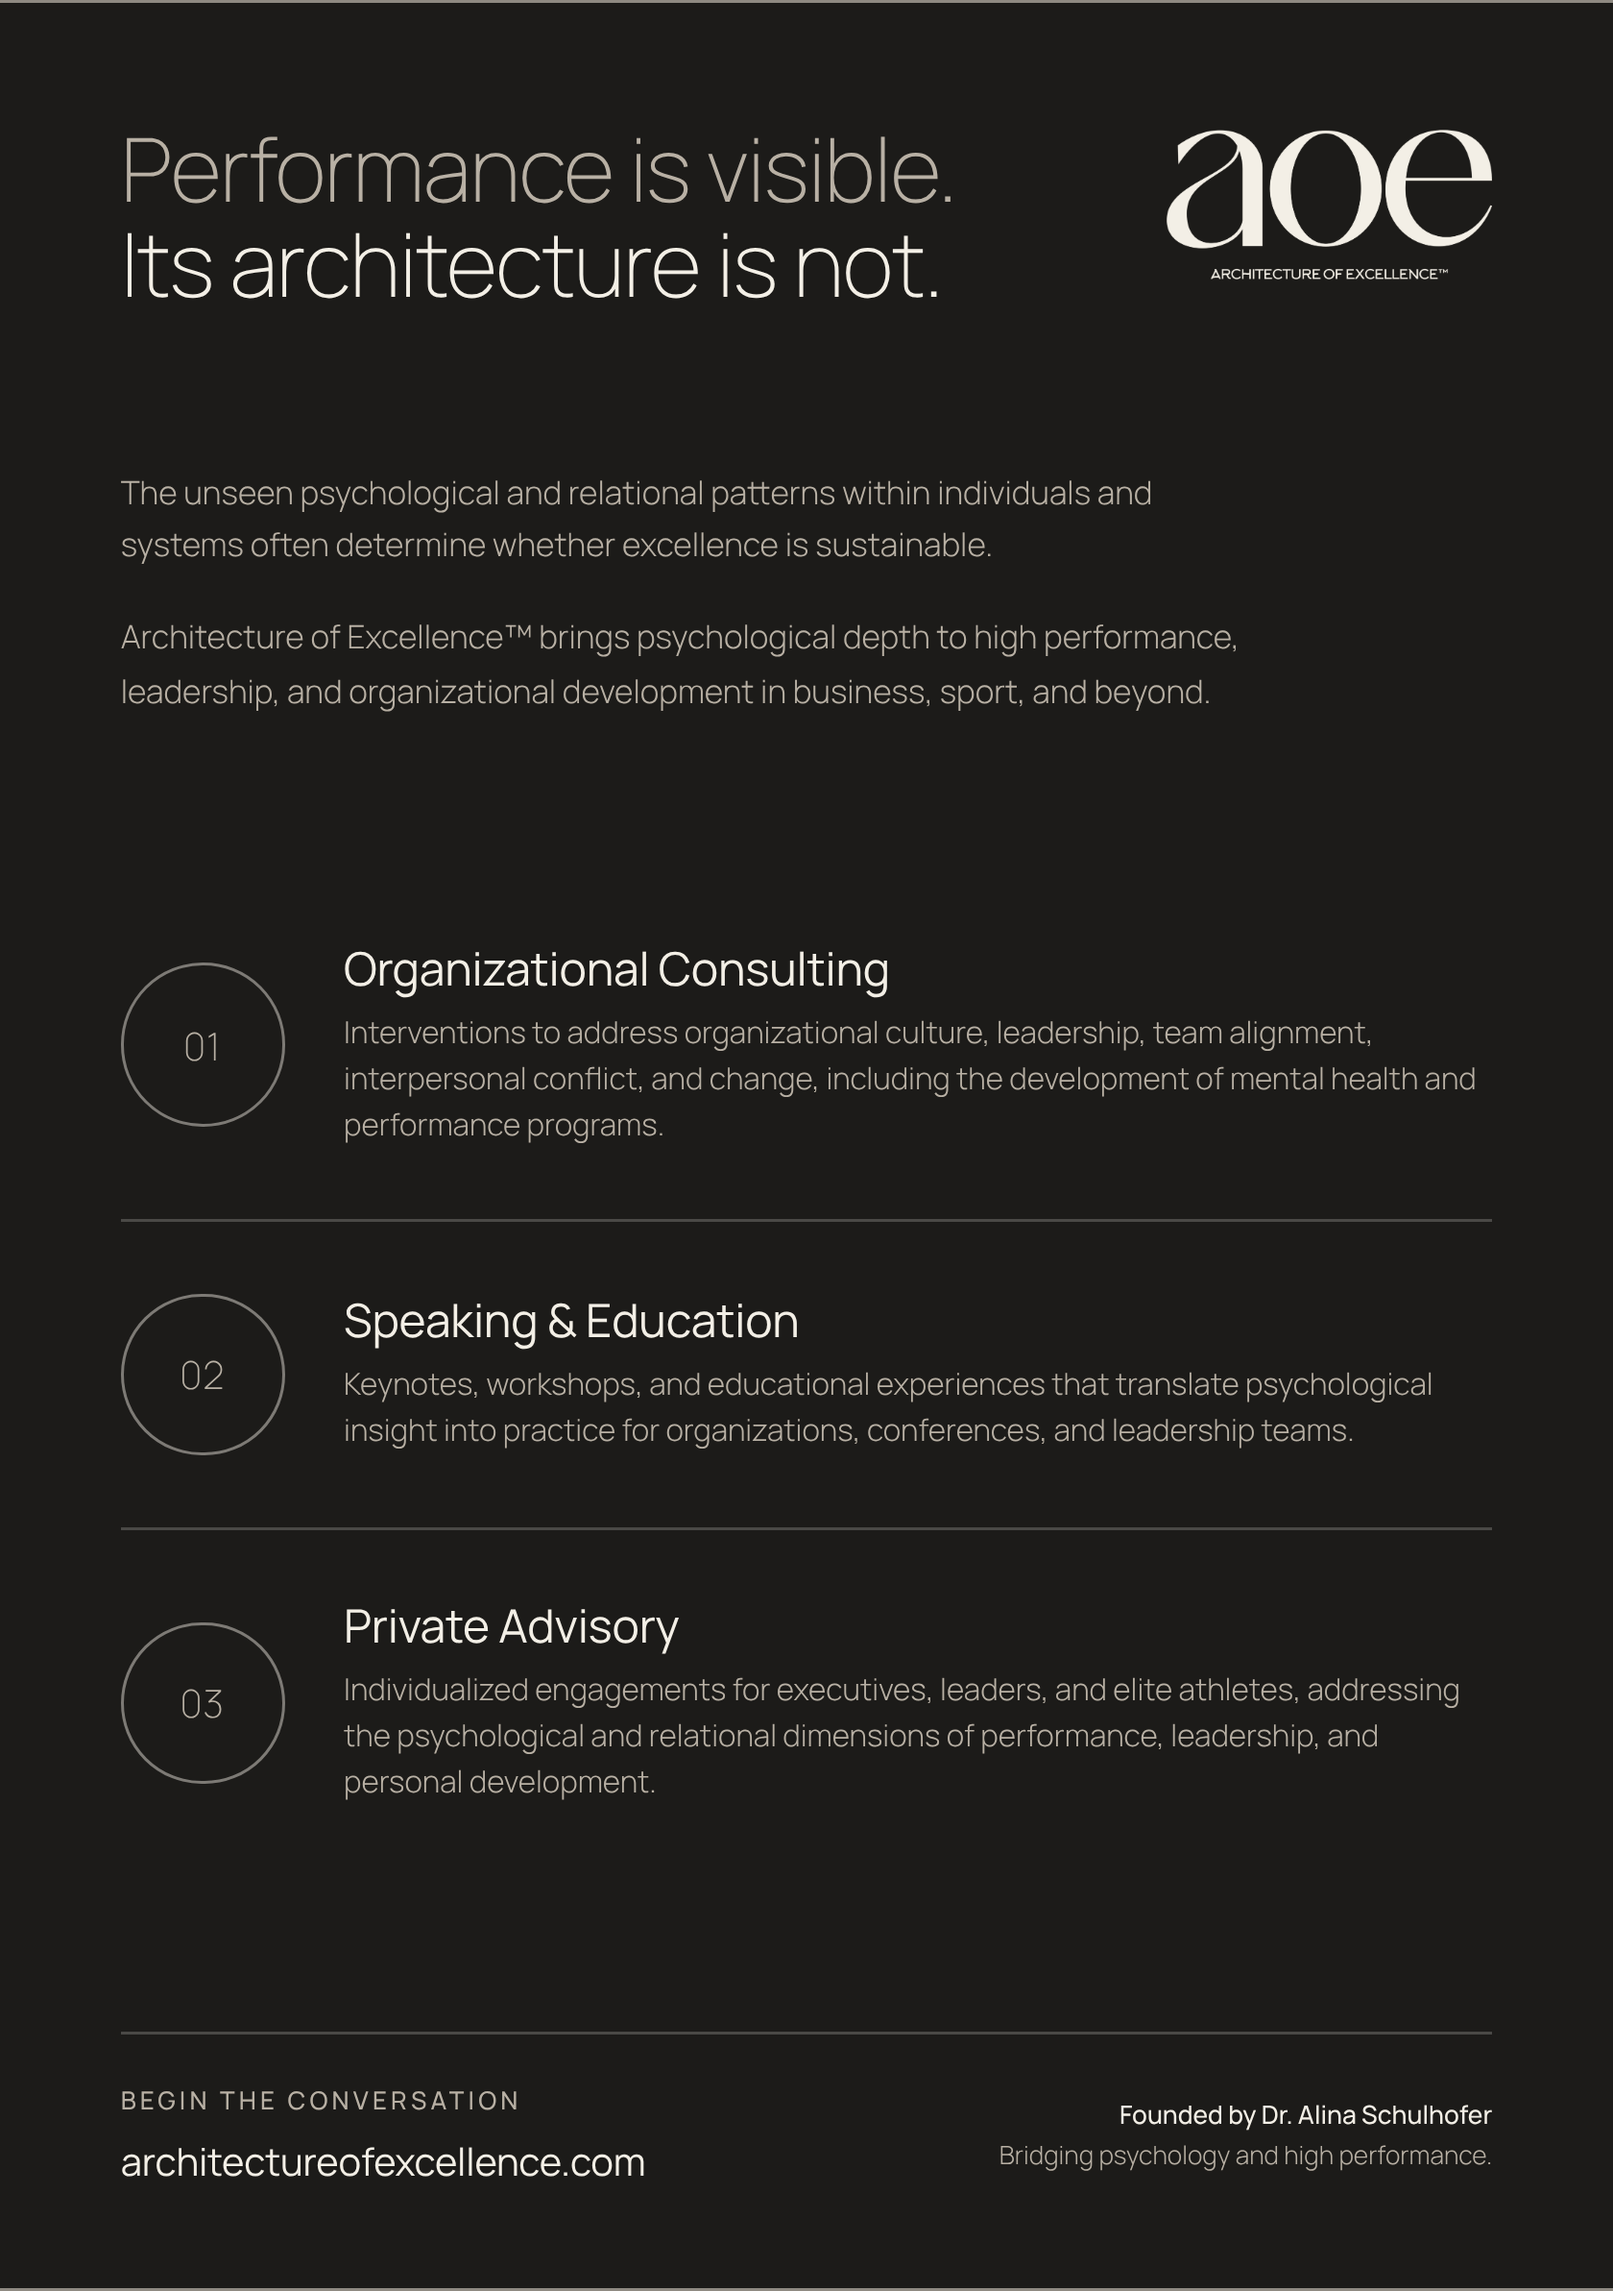
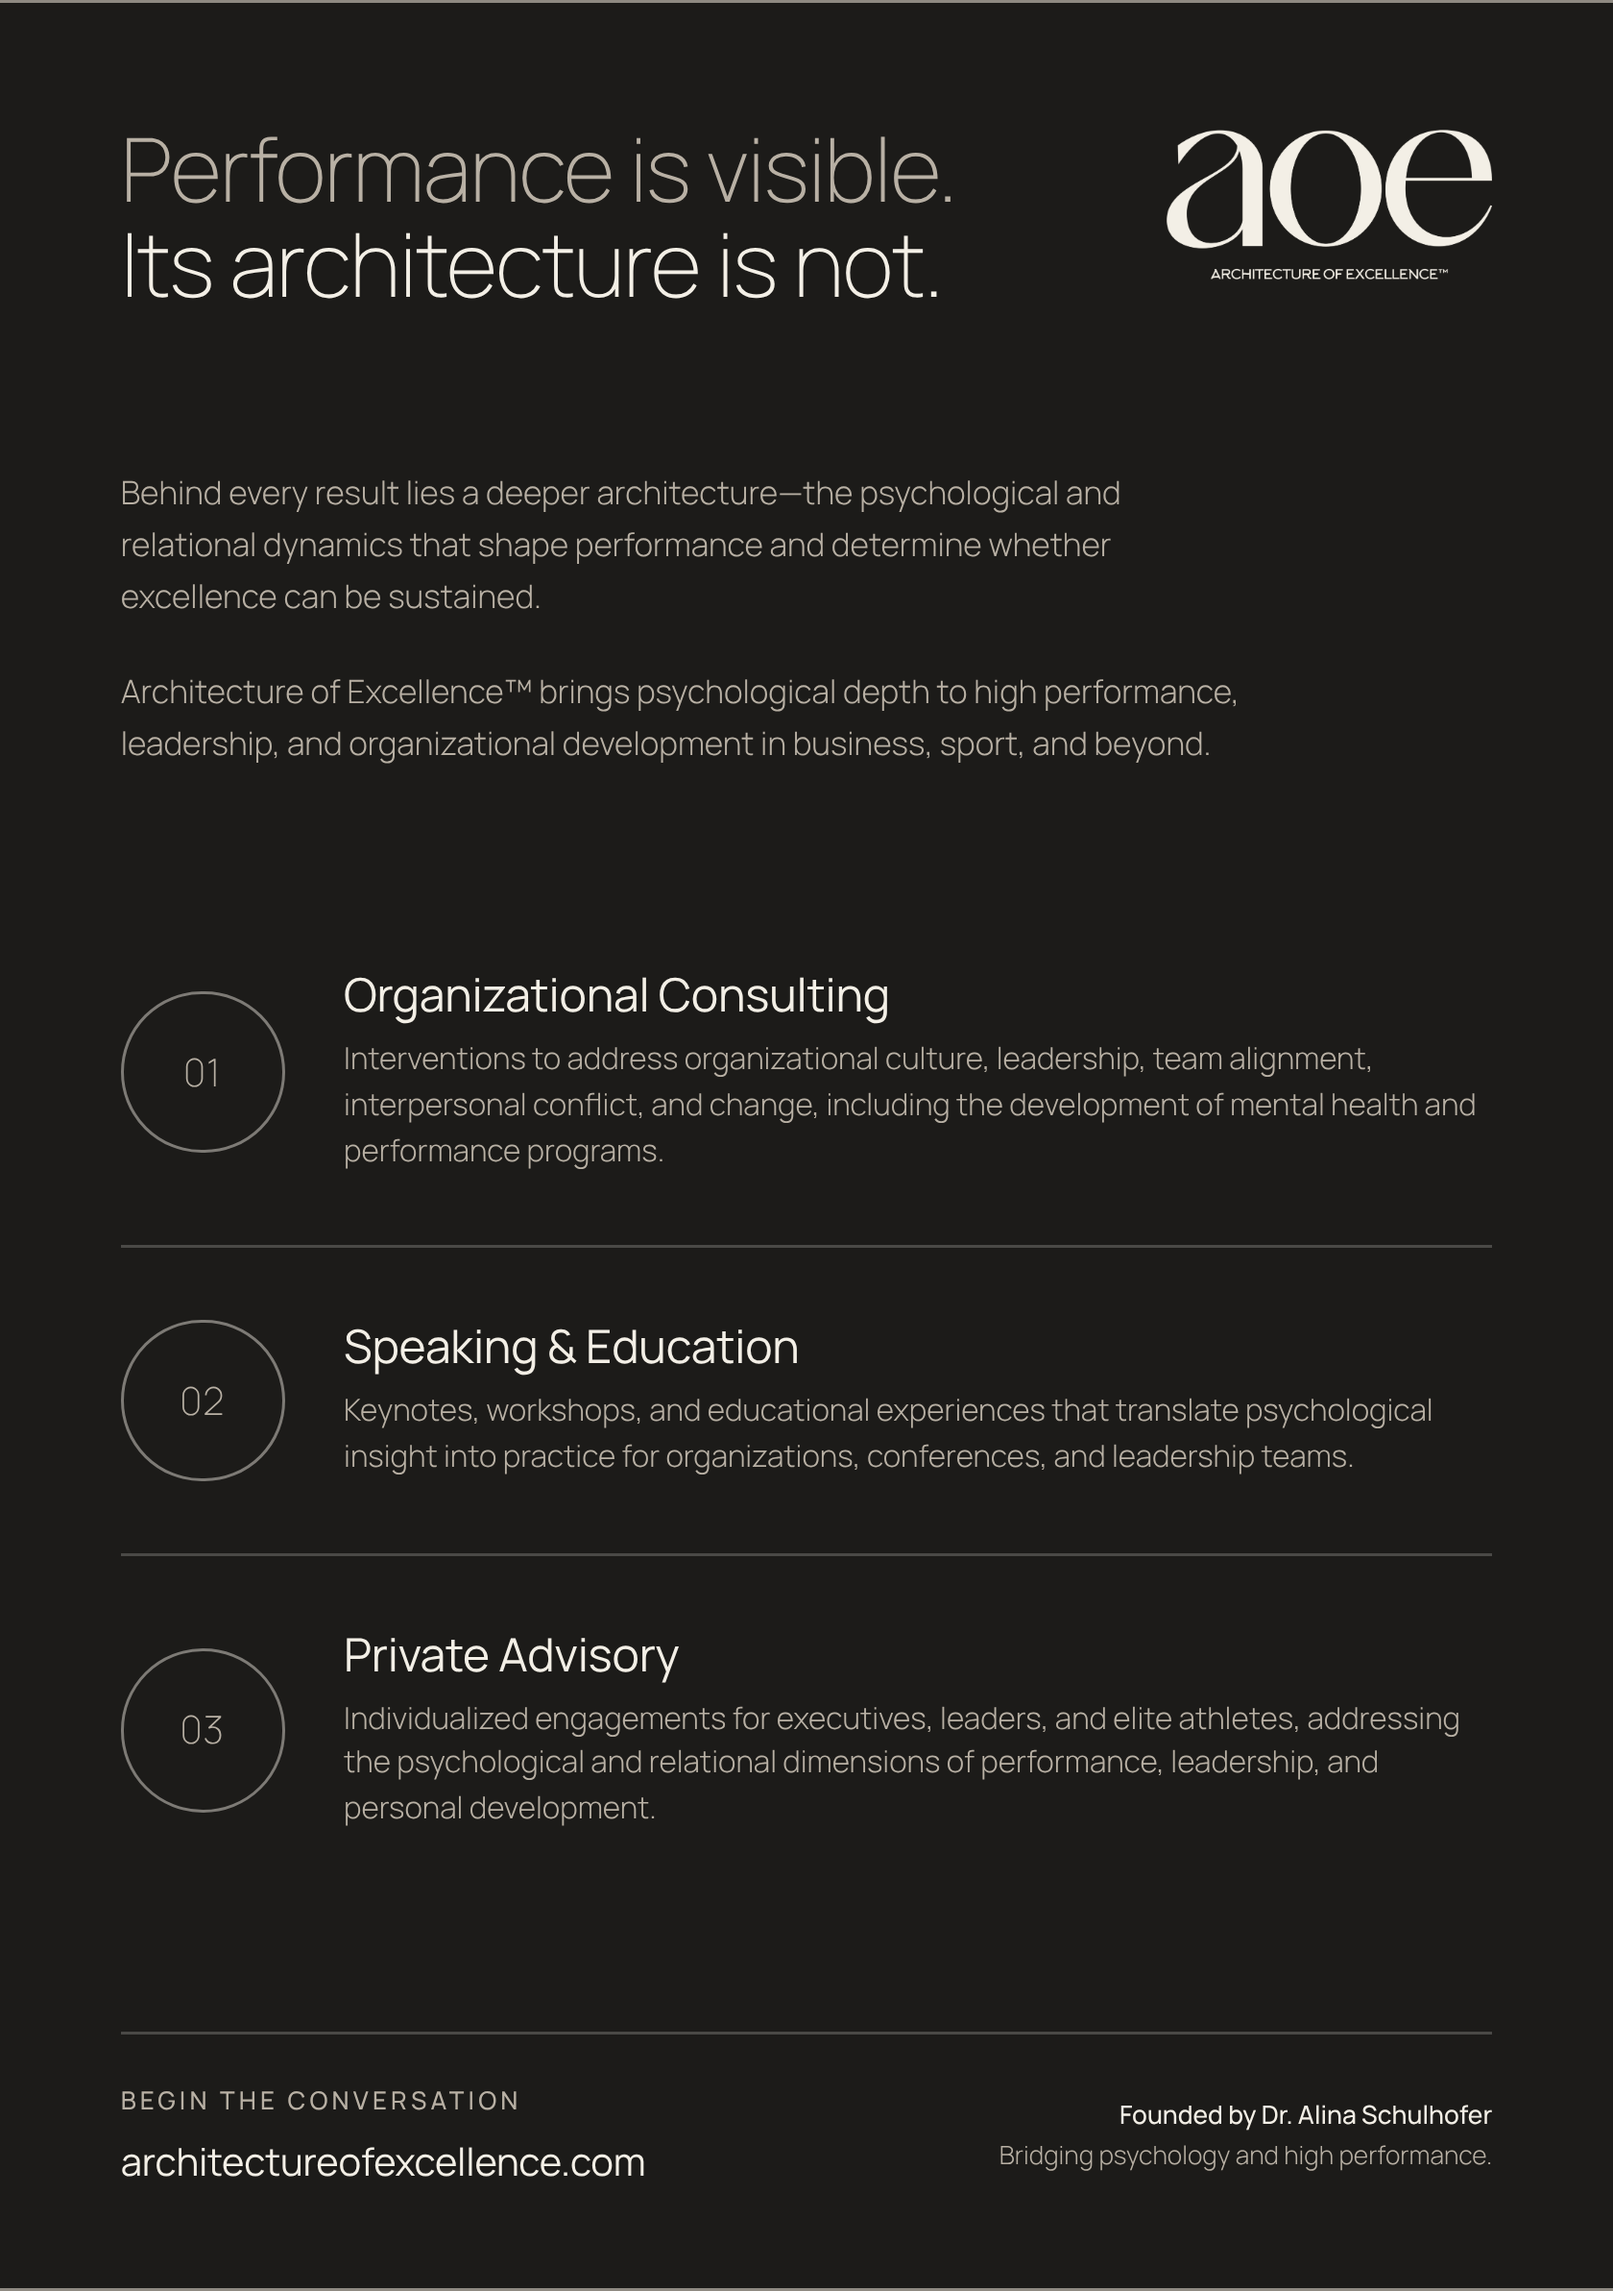
Final ad: new opening paragraph
Claude-Session: https://claude.ai/code/session_016XVBEBNhyuoZMVmUbvV6yP

diff --git a/ads/panam-aquatics-2026/final-ad.html b/ads/panam-aquatics-2026/final-ad.html
@@ -61,8 +61,8 @@
   </header>
 
   <div class="lede">
-    <p>The unseen psychological and relational patterns within individuals and systems often
-    determine whether excellence is sustainable.</p>
+    <p>Behind every result lies a deeper architecture—the psychological and relational dynamics
+    that shape performance and determine whether excellence can be sustained.</p>
     <p>Architecture of Excellence™ brings psychological depth to high performance,
     leadership, and organizational development in business, sport, and beyond.</p>
   </div>
